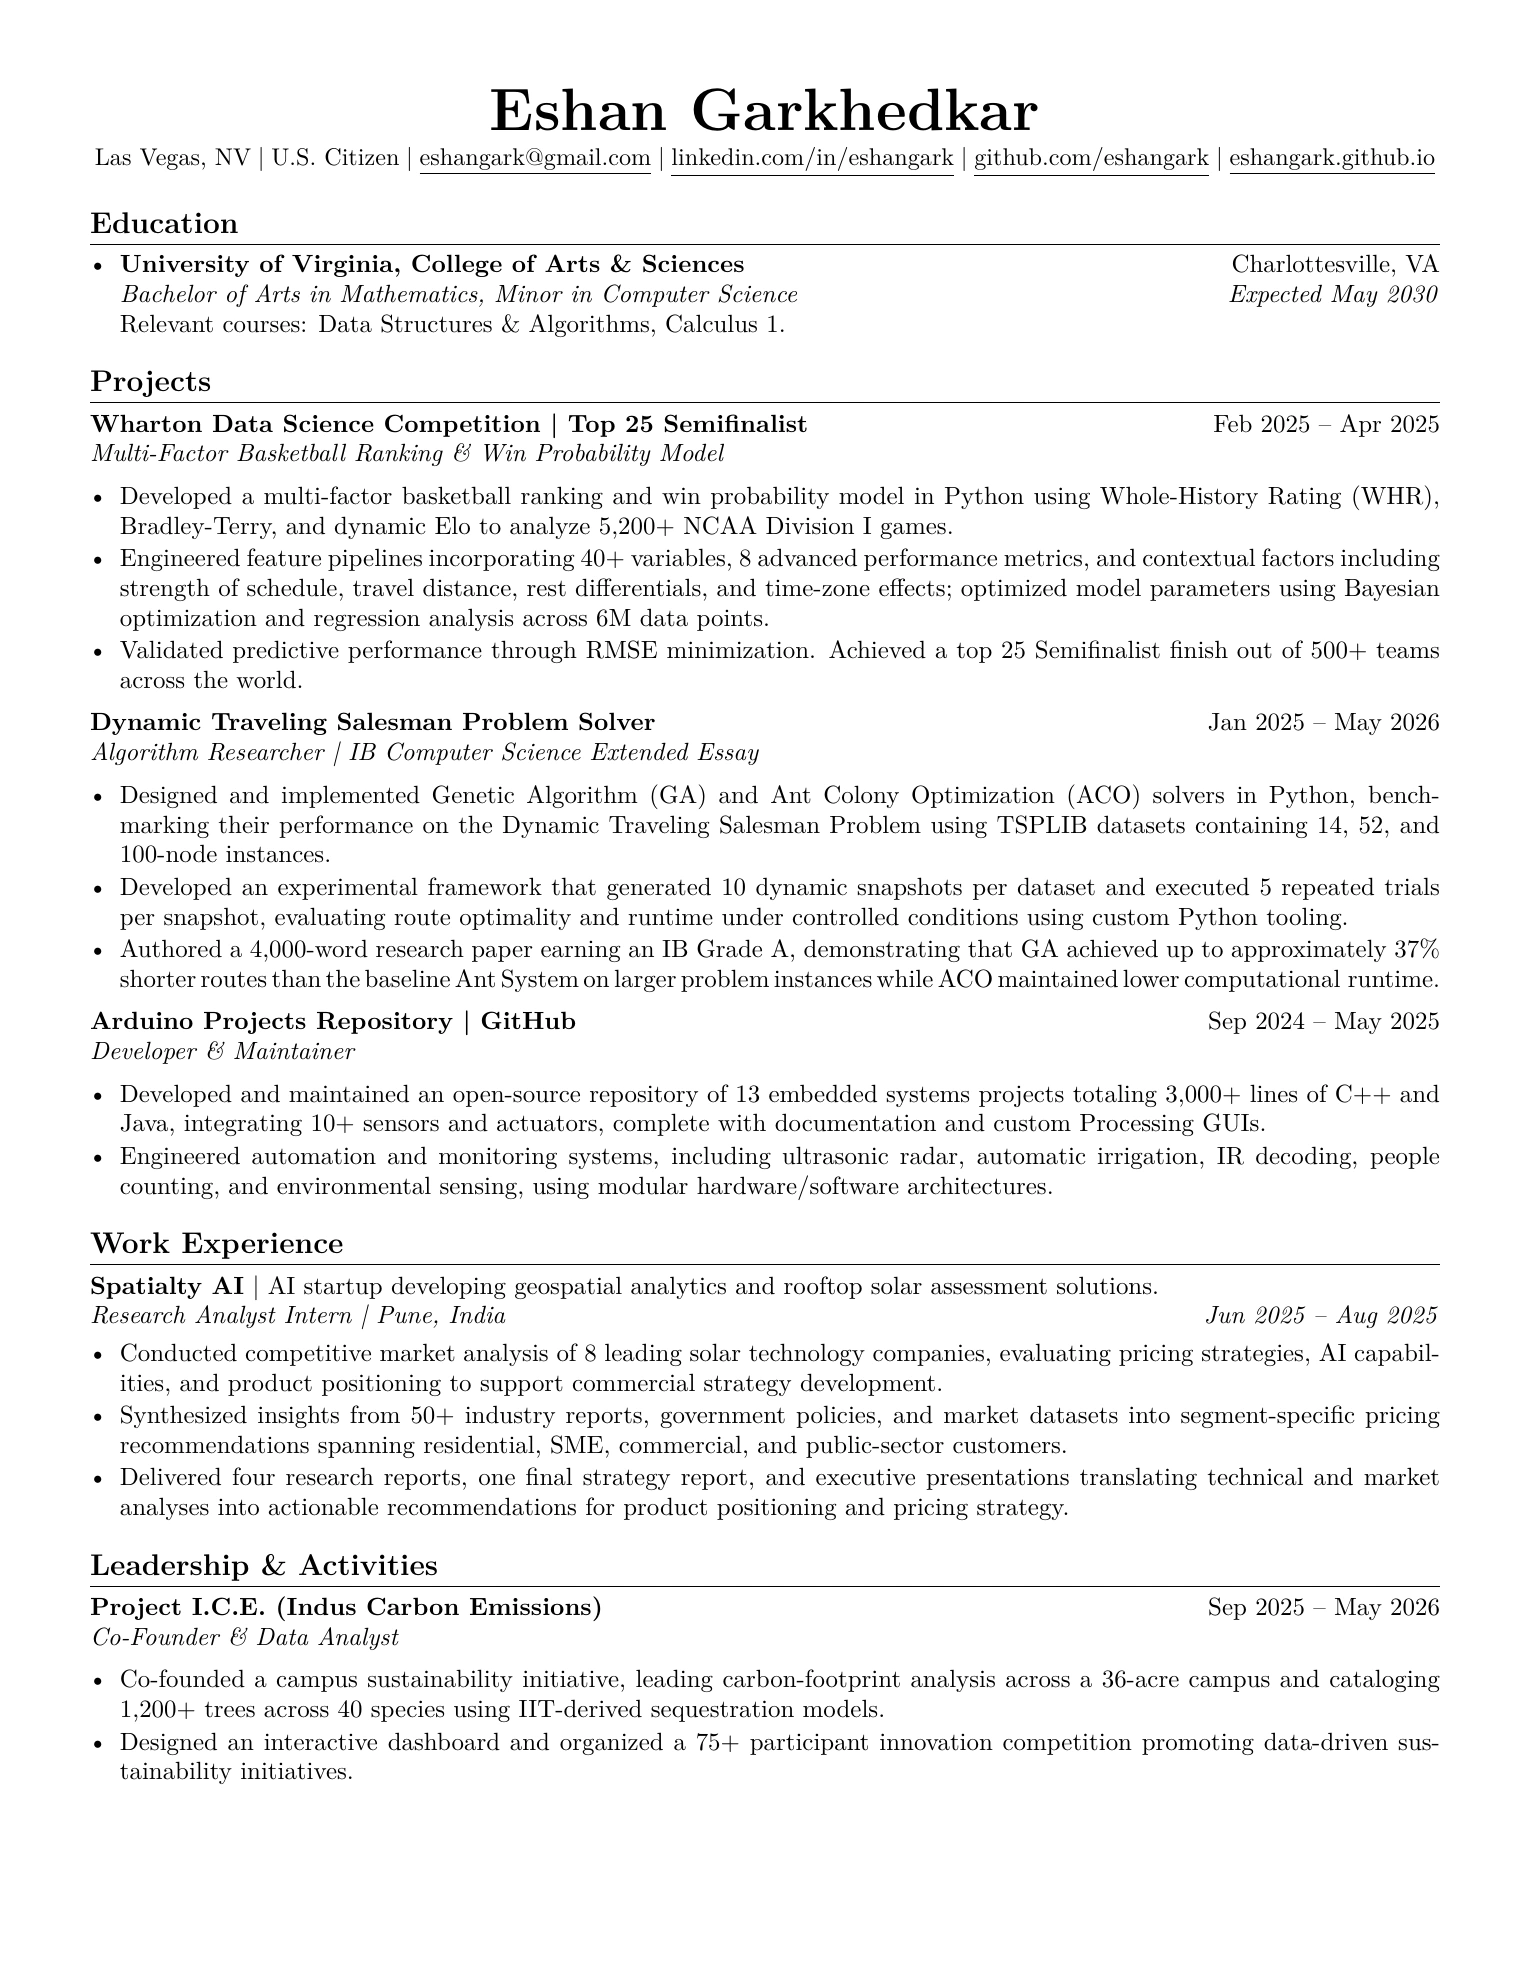
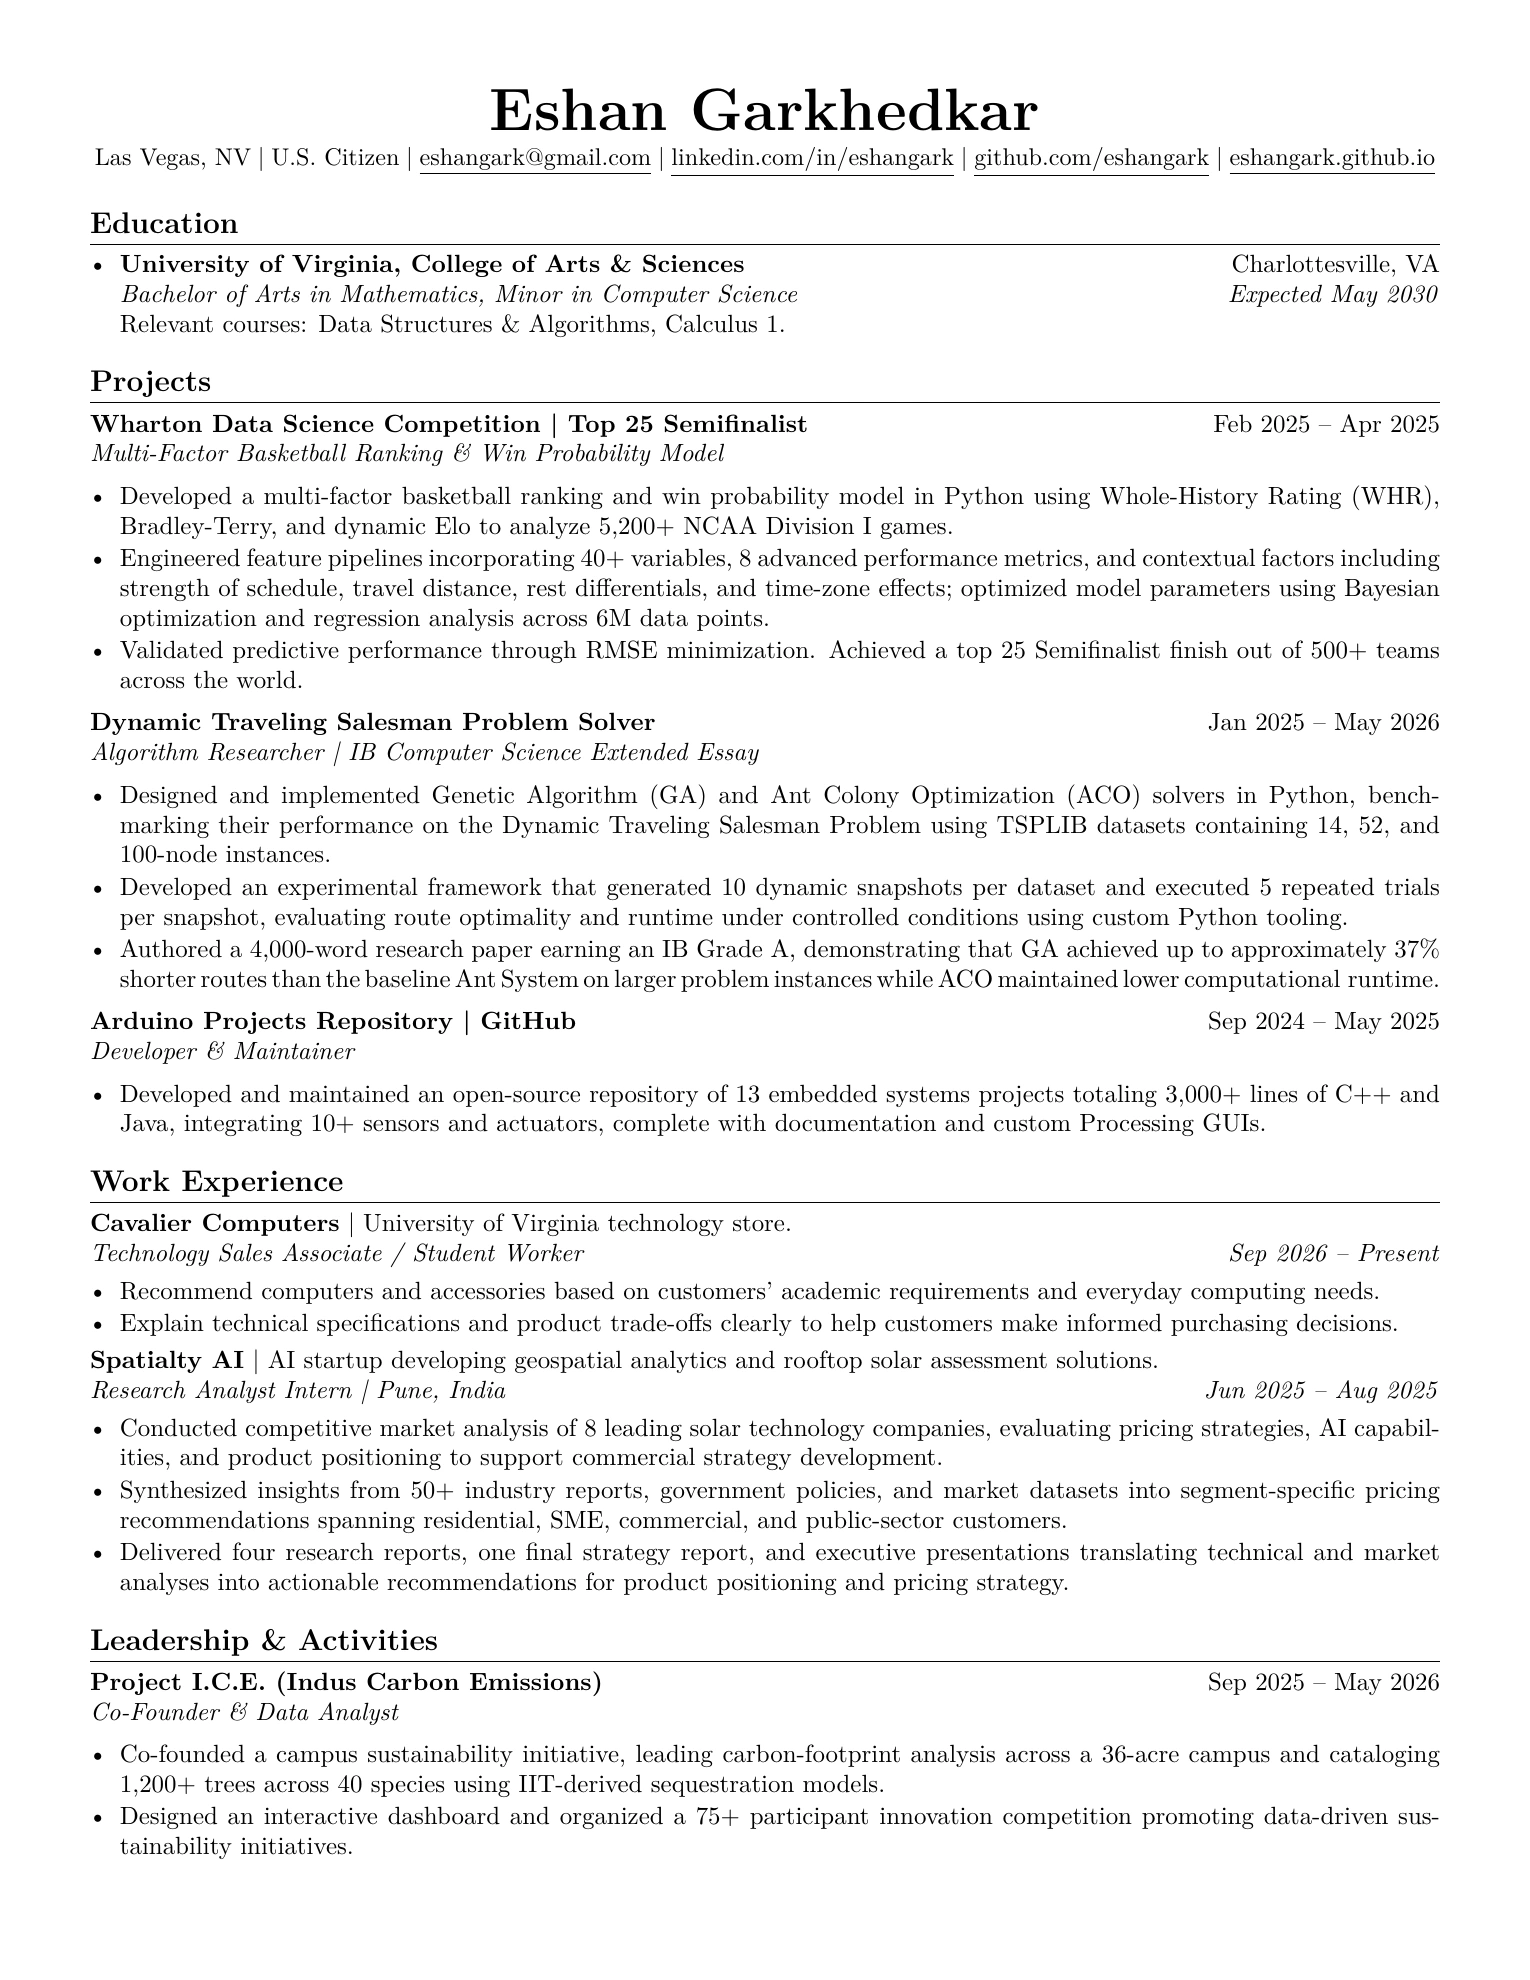
Add Cavalier Computers role and shorten Arduino section

Changed region(s): [[0.0614, 0.5854, 0.9523, 0.9551]]

diff --git a/index.html b/index.html
@@ -162,11 +162,11 @@
             <p class="eyebrow">Resume</p>
             <h2 id="resume-title">Resume</h2>
             <div class="resume-preview">
-              <img src="assets/resume-preview.webp?v=83980e29a2c1" width="1530" height="1980" alt="Eshan Garkhedkar’s resume. Use View PDF below to read the document." loading="lazy">
+              <img src="assets/resume-preview.webp?v=4d4328a6b791" width="1530" height="1980" alt="Eshan Garkhedkar’s resume. Use View PDF below to read the document." loading="lazy">
             </div>
             <div class="resume-actions">
-              <a class="text-link" href="assets/Eshan_Garkhedkar_Resume.pdf?v=394f0322eac6" target="_blank" rel="noopener">View PDF <span aria-hidden="true">↗</span></a>
-              <a class="text-link" href="assets/Eshan_Garkhedkar_Resume.pdf?v=394f0322eac6" download>Download PDF <span aria-hidden="true">↓</span></a>
+              <a class="text-link" href="assets/Eshan_Garkhedkar_Resume.pdf?v=254ca9e36e67" target="_blank" rel="noopener">View PDF <span aria-hidden="true">↗</span></a>
+              <a class="text-link" href="assets/Eshan_Garkhedkar_Resume.pdf?v=254ca9e36e67" download>Download PDF <span aria-hidden="true">↓</span></a>
             </div>
           </section>
           <section id="contact" class="panel" aria-labelledby="contact-title" hidden>

diff --git a/resume/main.tex b/resume/main.tex
@@ -42,9 +42,14 @@ Relevant courses: Data Structures \& Algorithms, Calculus 1.\ifdefined\ResumePho
 \entry{Arduino Projects Repository | \href{https://github.com/eshangark/Arduino-Projects}{GitHub}}{Sep 2024 -- May 2025}{Developer \& Maintainer}{}
 \begin{itemize}
 \item Developed and maintained an open-source repository of 13 embedded systems projects totaling 3,000+ lines of C++ and Java, integrating 10+ sensors and actuators, complete with documentation and custom Processing GUIs.
-\item Engineered automation and monitoring systems, including ultrasonic radar, automatic irrigation, IR decoding, people counting, and environmental sensing, using modular hardware/software architectures.
 \end{itemize}
 \section{Work Experience}
+\textbf{Cavalier Computers} | University of Virginia technology store.\\
+\textit{Technology Sales Associate / Student Worker}\hfill\textit{Sep 2026 -- Present}
+\begin{itemize}
+\item Recommend computers and accessories based on customers' academic requirements and everyday computing needs.
+\item Explain technical specifications and product trade-offs clearly to help customers make informed purchasing decisions.
+\end{itemize}
 \textbf{Spatialty AI} | AI startup developing geospatial analytics and rooftop solar assessment solutions.\\
 \textit{Research Analyst Intern | Pune, India}\hfill\textit{Jun 2025 -- Aug 2025}
 \begin{itemize}
